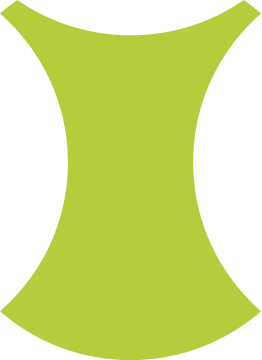
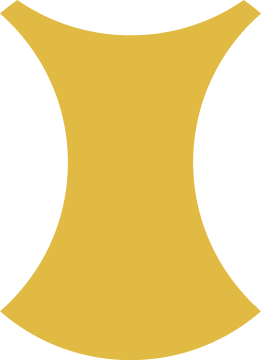
套用業主第二版素材：金黃花瓣邊框、怪獸插畫與新頁首標題
- 花瓣邊框 8 張圖由綠色重新上色為金黃色，底色改暖灰
- 展覽介紹區加入右上藍色怪獸、左下橘色怪獸插畫
- 頁首改放「怪獸放電場 PLAY TOGETHER!」標題圖
- 頁尾改玫瑰粉色底，介紹區底色微調

diff --git a/src/components/booking/BookingWizard.tsx b/src/components/booking/BookingWizard.tsx
@@ -122,25 +122,38 @@ export default function BookingWizard({
 
 function IntroPanel({ eventName, introText }: { eventName: string; introText: string }) {
   return (
-    <div className="space-y-4 bg-[#FBF8F2] px-5 py-8 md:px-10 md:py-16">
+    <div className="relative space-y-4 bg-[#FDF9F5] px-5 py-8 md:px-10 md:py-16">
       {/* 展覽介紹裡自己寫了「# 大標題」時就不再重複顯示展會名稱。 */}
       {!/^# /m.test(introText) && (
         <h1 className="text-2xl font-bold leading-snug text-ink md:text-3xl">{eventName}</h1>
       )}
       {introText && <RichIntro source={introText} />}
+      {/* 業主第二版素材：右上藍色怪獸、左下兩隻橘色怪獸。放在文字之後、絕對定位，不影響排版。 */}
+      <img
+        src="/monsters/intro-blue.png"
+        alt=""
+        aria-hidden="true"
+        className="pointer-events-none absolute right-4 top-14 w-24 md:right-10 md:top-28 md:w-40"
+      />
+      <img
+        src="/monsters/intro-pair.png"
+        alt=""
+        aria-hidden="true"
+        className="pointer-events-none absolute bottom-2 left-3 w-28 md:bottom-4 md:left-8 md:w-40"
+      />
+      <div className="h-24 md:h-32" aria-hidden="true" />
     </div>
   );
 }
 
-// 頁首：浮在花瓣邊框上的白色圓角小框（左），政府合作 logo 放在右上角白色方塊。
+// 頁首：浮在花瓣邊框上的白色圓角小框（左，放「怪獸放電場 PLAY TOGETHER!」標題圖），政府合作 logo 放在右上角白色方塊。
 // 參考稿小框裡還有「競技場介紹／選手登入」等選單，系統沒有對應頁面，不放。
 // 手機版照參考稿改成整條白色橫條，logo 收在橫條右側。
 function SiteHeader() {
   return (
     <header className="relative flex items-start justify-between px-4 pt-4">
-      <div className="flex w-full items-center gap-3 rounded-2xl bg-white py-1.5 pl-4 pr-2 shadow-softsm md:w-auto md:py-2 md:pr-4">
-        <span className="text-lg font-black text-pink">體驗登記系統</span>
-        <span className="rounded-full bg-pink px-3 py-1 text-xs font-bold text-white">線上登記</span>
+      <div className="flex w-full items-center gap-3 rounded-2xl bg-white py-1.5 pl-4 pr-2 shadow-softsm md:w-auto md:py-2 md:pr-6">
+        <img src="/pattern/logo-play-together.png" alt="怪獸放電場 PLAY TOGETHER!" className="h-8 w-auto md:h-10" />
         <img src="/pattern/logo-newtaipei.png" alt="" aria-hidden="true" className="ml-auto h-10 w-auto md:hidden" />
       </div>
       <div className="absolute right-0 top-0 hidden bg-white p-1.5 md:block">
@@ -150,10 +163,11 @@ function SiteHeader() {
   );
 }
 
-// 頁尾：亮黃色，版權文字靠左。參考稿右側的隱私政策等連結系統沒有對應頁面，不放。
+// 頁尾：業主第二版素材包改成玫瑰粉色底、白字，版權文字靠左。
+// 參考稿右側的隱私政策等連結系統沒有對應頁面，不放。
 function Footer() {
   return (
-    <footer className="bg-[#FFF200] px-5 py-6 text-sm font-bold text-ink md:px-[4%]">
+    <footer className="bg-[#C5707D] px-5 py-6 text-sm font-bold text-white md:px-[4%]">
       © {new Date().getFullYear()} 體驗登記系統. All rights reserved.
     </footer>
   );

diff --git a/src/app/globals.css b/src/app/globals.css
@@ -38,8 +38,9 @@ body {
   @apply bg-paper text-ink font-sans;
 }
 
-/* 「體驗登記系統」花瓣邊框的藍色底色。花瓣圖本身見 BookingWizard.tsx：
-   桌機用 FrameBackground（14 張照比例擺放），手機用 MobileFrameBackground（固定尺寸）。 */
+/* 「體驗登記系統」花瓣邊框的底色。業主第二版素材包（ui/網頁素材包.ai）把配色從
+   藍＋綠換成暖灰＋金黃；public/pattern/ 的 8 張花瓣圖已重新上色成金黃色（#E1BA43）。
+   花瓣圖見 BookingWizard.tsx：桌機用 FrameBackground，手機用 MobileFrameBackground。 */
 .frame-bg {
-  background-color: #2fa3de;
+  background-color: #ece0d5;
 }
